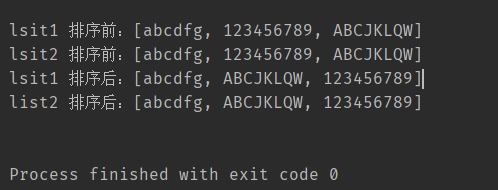
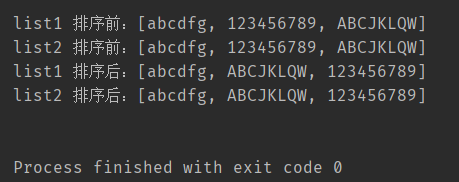
Site updated: 2020-04-12 17:04:47

Changed region(s): [[0.0, 0.0824, 0.9455, 0.6044], [0.0, 0.8791, 0.7625, 0.9615]]

diff --git a/2020/04/12/Java8-Lambda表达式学习/index.html b/2020/04/12/Java8-Lambda表达式学习/index.html
@@ -89,7 +89,7 @@
 <meta property="og:image" content="http://yoursite.com/2020/04/12/Java8-Lambda%E8%A1%A8%E8%BE%BE%E5%BC%8F%E5%AD%A6%E4%B9%A0/2.png">
 <meta property="og:image" content="http://yoursite.com/2020/04/12/Java8-Lambda%E8%A1%A8%E8%BE%BE%E5%BC%8F%E5%AD%A6%E4%B9%A0/3.png">
 <meta property="article:published_time" content="2020-04-12T02:32:10.000Z">
-<meta property="article:modified_time" content="2020-04-12T04:12:22.892Z">
+<meta property="article:modified_time" content="2020-04-12T09:01:50.158Z">
 <meta property="article:author" content="fzq">
 <meta property="article:tag" content="Java基础">
 <meta name="twitter:card" content="summary">
@@ -362,7 +362,7 @@
 <h3 id="2-使用Lambda-表达式的例子"><a href="#2-使用Lambda-表达式的例子" class="headerlink" title="2.使用Lambda 表达式的例子"></a>2.使用Lambda 表达式的例子</h3><ul>
 <li>关于匿名内部类</li>
 </ul>
-<figure class="highlight java"><table><tr><td class="gutter"><pre><span class="line">1</span><br><span class="line">2</span><br><span class="line">3</span><br><span class="line">4</span><br><span class="line">5</span><br><span class="line">6</span><br><span class="line">7</span><br><span class="line">8</span><br><span class="line">9</span><br><span class="line">10</span><br><span class="line">11</span><br><span class="line">12</span><br><span class="line">13</span><br><span class="line">14</span><br><span class="line">15</span><br><span class="line">16</span><br><span class="line">17</span><br><span class="line">18</span><br><span class="line">19</span><br><span class="line">20</span><br><span class="line">21</span><br><span class="line">22</span><br><span class="line">23</span><br><span class="line">24</span><br><span class="line">25</span><br></pre></td><td class="code"><pre><span class="line"><span class="comment">// 经常使用的匿名内部类 例如排序</span></span><br><span class="line">    <span class="meta">@Test</span></span><br><span class="line">    <span class="function"><span class="keyword">public</span> <span class="keyword">void</span> <span class="title">getComparator</span><span class="params">()</span> </span>&#123;</span><br><span class="line">        List&lt;String&gt; list1 = <span class="keyword">new</span> ArrayList&lt;&gt;();</span><br><span class="line">        list1.add(<span class="string">"abcdfg"</span>);</span><br><span class="line">        list1.add(<span class="string">"123456789"</span>);</span><br><span class="line">        list1.add(<span class="string">"ABCJKLQW"</span>);</span><br><span class="line">        ArrayList&lt;String&gt; list2 = <span class="keyword">new</span> ArrayList&lt;&gt;(list1);</span><br><span class="line"></span><br><span class="line">        System.out.println(<span class="string">"lsit1 排序前："</span>+list1);</span><br><span class="line">        System.out.println(<span class="string">"lsit2 排序前："</span>+list2);</span><br><span class="line"></span><br><span class="line">        <span class="comment">// Java 8之前</span></span><br><span class="line">        list1.sort(<span class="keyword">new</span> Comparator&lt;String&gt;() &#123;</span><br><span class="line">            <span class="meta">@Override</span></span><br><span class="line">            <span class="function"><span class="keyword">public</span> <span class="keyword">int</span> <span class="title">compare</span><span class="params">(String a, String b)</span> </span>&#123;</span><br><span class="line">                <span class="keyword">return</span> a.length() - b.length();</span><br><span class="line">            &#125;</span><br><span class="line">        &#125;);</span><br><span class="line">        <span class="comment">// java 8之后，使用Lambda 表达式</span></span><br><span class="line">        list2.sort((a,b) -&gt; a.length()-b.length());</span><br><span class="line"></span><br><span class="line">        System.out.println(<span class="string">"lsit1 排序后："</span>+list1);</span><br><span class="line">        System.out.println(<span class="string">"list2 排序后："</span>+list2);</span><br><span class="line">    &#125;</span><br></pre></td></tr></table></figure>
+<figure class="highlight java"><table><tr><td class="gutter"><pre><span class="line">1</span><br><span class="line">2</span><br><span class="line">3</span><br><span class="line">4</span><br><span class="line">5</span><br><span class="line">6</span><br><span class="line">7</span><br><span class="line">8</span><br><span class="line">9</span><br><span class="line">10</span><br><span class="line">11</span><br><span class="line">12</span><br><span class="line">13</span><br><span class="line">14</span><br><span class="line">15</span><br><span class="line">16</span><br><span class="line">17</span><br><span class="line">18</span><br><span class="line">19</span><br><span class="line">20</span><br><span class="line">21</span><br><span class="line">22</span><br><span class="line">23</span><br><span class="line">24</span><br><span class="line">25</span><br></pre></td><td class="code"><pre><span class="line"><span class="comment">// 经常使用的匿名内部类 例如排序</span></span><br><span class="line">    <span class="meta">@Test</span></span><br><span class="line">    <span class="function"><span class="keyword">public</span> <span class="keyword">void</span> <span class="title">getComparator</span><span class="params">()</span> </span>&#123;</span><br><span class="line">        List&lt;String&gt; list1 = <span class="keyword">new</span> ArrayList&lt;&gt;();</span><br><span class="line">        list1.add(<span class="string">"abcdfg"</span>);</span><br><span class="line">        list1.add(<span class="string">"123456789"</span>);</span><br><span class="line">        list1.add(<span class="string">"ABCJKLQW"</span>);</span><br><span class="line">        ArrayList&lt;String&gt; list2 = <span class="keyword">new</span> ArrayList&lt;&gt;(list1);</span><br><span class="line"></span><br><span class="line">        System.out.println(<span class="string">"list1 排序前："</span>+list1);</span><br><span class="line">        System.out.println(<span class="string">"list2 排序前："</span>+list2);</span><br><span class="line"></span><br><span class="line">        <span class="comment">// Java 8之前</span></span><br><span class="line">        list1.sort(<span class="keyword">new</span> Comparator&lt;String&gt;() &#123;</span><br><span class="line">            <span class="meta">@Override</span></span><br><span class="line">            <span class="function"><span class="keyword">public</span> <span class="keyword">int</span> <span class="title">compare</span><span class="params">(String a, String b)</span> </span>&#123;</span><br><span class="line">                <span class="keyword">return</span> a.length() - b.length();</span><br><span class="line">            &#125;</span><br><span class="line">        &#125;);</span><br><span class="line">        <span class="comment">// java 8之后，使用Lambda 表达式</span></span><br><span class="line">        list2.sort((a,b) -&gt; a.length()-b.length());</span><br><span class="line"></span><br><span class="line">        System.out.println(<span class="string">"list1 排序后："</span>+list1);</span><br><span class="line">        System.out.println(<span class="string">"list2 排序后："</span>+list2);</span><br><span class="line">    &#125;</span><br></pre></td></tr></table></figure>
 
 <p>最后打印输出的结果是一样的</p>
 <img src="/2020/04/12/Java8-Lambda%E8%A1%A8%E8%BE%BE%E5%BC%8F%E5%AD%A6%E4%B9%A0/1.png" class title="打印输出的结果">

diff --git a/index.html b/index.html
@@ -360,7 +360,7 @@
 <h3 id="2-使用Lambda-表达式的例子"><a href="#2-使用Lambda-表达式的例子" class="headerlink" title="2.使用Lambda 表达式的例子"></a>2.使用Lambda 表达式的例子</h3><ul>
 <li>关于匿名内部类</li>
 </ul>
-<figure class="highlight java"><table><tr><td class="gutter"><pre><span class="line">1</span><br><span class="line">2</span><br><span class="line">3</span><br><span class="line">4</span><br><span class="line">5</span><br><span class="line">6</span><br><span class="line">7</span><br><span class="line">8</span><br><span class="line">9</span><br><span class="line">10</span><br><span class="line">11</span><br><span class="line">12</span><br><span class="line">13</span><br><span class="line">14</span><br><span class="line">15</span><br><span class="line">16</span><br><span class="line">17</span><br><span class="line">18</span><br><span class="line">19</span><br><span class="line">20</span><br><span class="line">21</span><br><span class="line">22</span><br><span class="line">23</span><br><span class="line">24</span><br><span class="line">25</span><br></pre></td><td class="code"><pre><span class="line"><span class="comment">// 经常使用的匿名内部类 例如排序</span></span><br><span class="line">    <span class="meta">@Test</span></span><br><span class="line">    <span class="function"><span class="keyword">public</span> <span class="keyword">void</span> <span class="title">getComparator</span><span class="params">()</span> </span>&#123;</span><br><span class="line">        List&lt;String&gt; list1 = <span class="keyword">new</span> ArrayList&lt;&gt;();</span><br><span class="line">        list1.add(<span class="string">"abcdfg"</span>);</span><br><span class="line">        list1.add(<span class="string">"123456789"</span>);</span><br><span class="line">        list1.add(<span class="string">"ABCJKLQW"</span>);</span><br><span class="line">        ArrayList&lt;String&gt; list2 = <span class="keyword">new</span> ArrayList&lt;&gt;(list1);</span><br><span class="line"></span><br><span class="line">        System.out.println(<span class="string">"lsit1 排序前："</span>+list1);</span><br><span class="line">        System.out.println(<span class="string">"lsit2 排序前："</span>+list2);</span><br><span class="line"></span><br><span class="line">        <span class="comment">// Java 8之前</span></span><br><span class="line">        list1.sort(<span class="keyword">new</span> Comparator&lt;String&gt;() &#123;</span><br><span class="line">            <span class="meta">@Override</span></span><br><span class="line">            <span class="function"><span class="keyword">public</span> <span class="keyword">int</span> <span class="title">compare</span><span class="params">(String a, String b)</span> </span>&#123;</span><br><span class="line">                <span class="keyword">return</span> a.length() - b.length();</span><br><span class="line">            &#125;</span><br><span class="line">        &#125;);</span><br><span class="line">        <span class="comment">// java 8之后，使用Lambda 表达式</span></span><br><span class="line">        list2.sort((a,b) -&gt; a.length()-b.length());</span><br><span class="line"></span><br><span class="line">        System.out.println(<span class="string">"lsit1 排序后："</span>+list1);</span><br><span class="line">        System.out.println(<span class="string">"list2 排序后："</span>+list2);</span><br><span class="line">    &#125;</span><br></pre></td></tr></table></figure>
+<figure class="highlight java"><table><tr><td class="gutter"><pre><span class="line">1</span><br><span class="line">2</span><br><span class="line">3</span><br><span class="line">4</span><br><span class="line">5</span><br><span class="line">6</span><br><span class="line">7</span><br><span class="line">8</span><br><span class="line">9</span><br><span class="line">10</span><br><span class="line">11</span><br><span class="line">12</span><br><span class="line">13</span><br><span class="line">14</span><br><span class="line">15</span><br><span class="line">16</span><br><span class="line">17</span><br><span class="line">18</span><br><span class="line">19</span><br><span class="line">20</span><br><span class="line">21</span><br><span class="line">22</span><br><span class="line">23</span><br><span class="line">24</span><br><span class="line">25</span><br></pre></td><td class="code"><pre><span class="line"><span class="comment">// 经常使用的匿名内部类 例如排序</span></span><br><span class="line">    <span class="meta">@Test</span></span><br><span class="line">    <span class="function"><span class="keyword">public</span> <span class="keyword">void</span> <span class="title">getComparator</span><span class="params">()</span> </span>&#123;</span><br><span class="line">        List&lt;String&gt; list1 = <span class="keyword">new</span> ArrayList&lt;&gt;();</span><br><span class="line">        list1.add(<span class="string">"abcdfg"</span>);</span><br><span class="line">        list1.add(<span class="string">"123456789"</span>);</span><br><span class="line">        list1.add(<span class="string">"ABCJKLQW"</span>);</span><br><span class="line">        ArrayList&lt;String&gt; list2 = <span class="keyword">new</span> ArrayList&lt;&gt;(list1);</span><br><span class="line"></span><br><span class="line">        System.out.println(<span class="string">"list1 排序前："</span>+list1);</span><br><span class="line">        System.out.println(<span class="string">"list2 排序前："</span>+list2);</span><br><span class="line"></span><br><span class="line">        <span class="comment">// Java 8之前</span></span><br><span class="line">        list1.sort(<span class="keyword">new</span> Comparator&lt;String&gt;() &#123;</span><br><span class="line">            <span class="meta">@Override</span></span><br><span class="line">            <span class="function"><span class="keyword">public</span> <span class="keyword">int</span> <span class="title">compare</span><span class="params">(String a, String b)</span> </span>&#123;</span><br><span class="line">                <span class="keyword">return</span> a.length() - b.length();</span><br><span class="line">            &#125;</span><br><span class="line">        &#125;);</span><br><span class="line">        <span class="comment">// java 8之后，使用Lambda 表达式</span></span><br><span class="line">        list2.sort((a,b) -&gt; a.length()-b.length());</span><br><span class="line"></span><br><span class="line">        System.out.println(<span class="string">"list1 排序后："</span>+list1);</span><br><span class="line">        System.out.println(<span class="string">"list2 排序后："</span>+list2);</span><br><span class="line">    &#125;</span><br></pre></td></tr></table></figure>
 
 <p>最后打印输出的结果是一样的</p>
 <img src="/2020/04/12/Java8-Lambda%E8%A1%A8%E8%BE%BE%E5%BC%8F%E5%AD%A6%E4%B9%A0/1.png" class title="打印输出的结果">
